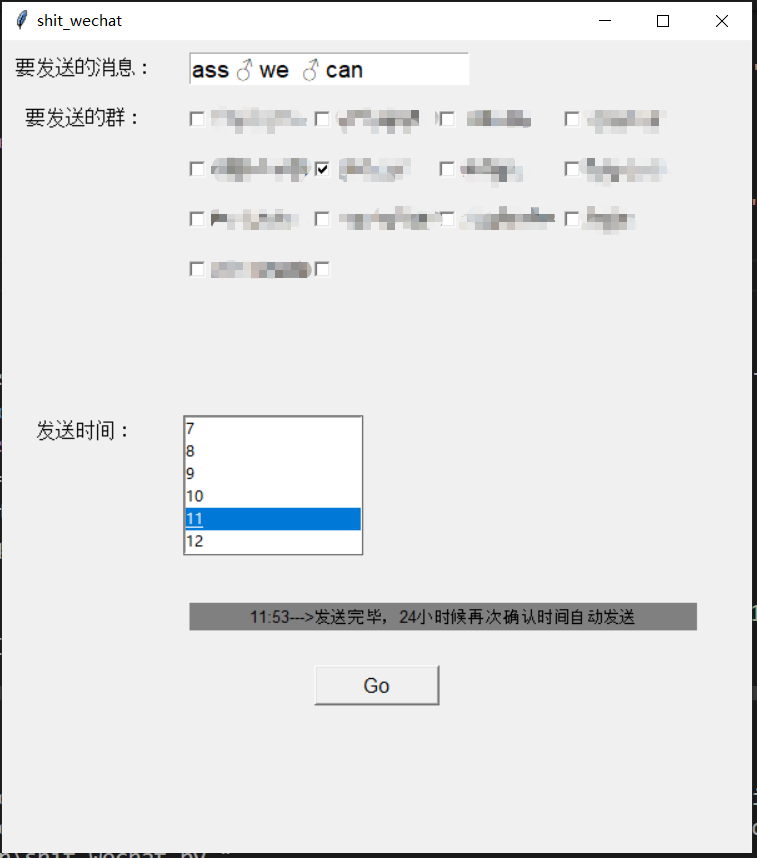
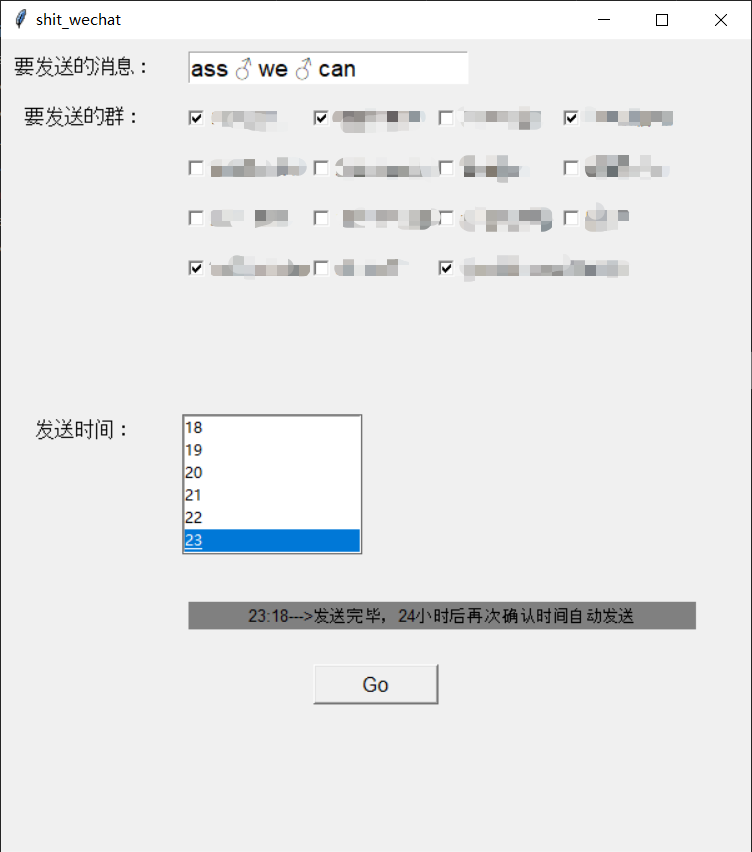
init

diff --git a/shit_wechat.py b/shit_wechat.py
@@ -108,7 +108,7 @@ while True:
             log_msg.set(now + '开始发送到：' + single_group)
             my_group.send_msg(msg)
         logging.info('发送完毕，24小时后再次确认时间自动发送')
-        log_msg.set(now + '发送完毕，24小时候再次确认时间自动发送')
+        log_msg.set(now + '发送完毕，24小时后再次确认时间自动发送')
         time.sleep(60 * 60 * 24)
     else:
         logging.info('未到发送时间，一小时后再次自动确认时间')
